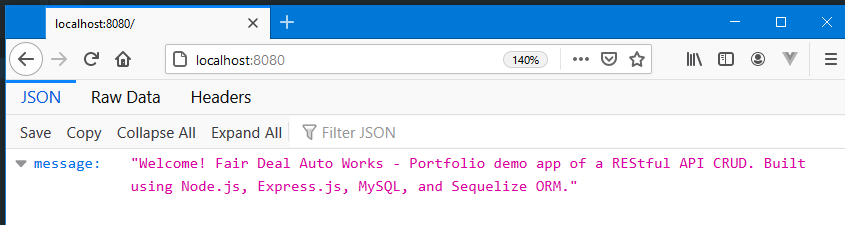
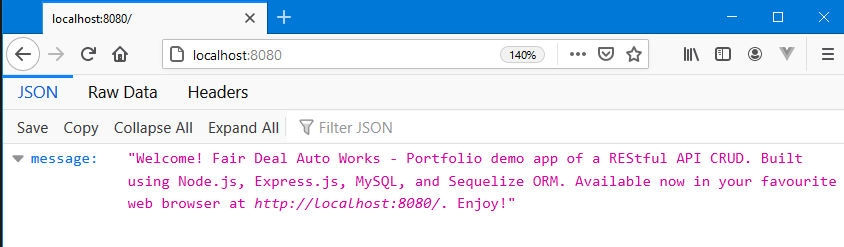
Added DB

Changed region(s): [[0.0, 0.0, 1.0, 1.0], [0.955, 0.0622, 0.9858, 0.0933]]

diff --git a/server.js b/server.js
@@ -1,20 +1,31 @@
-// server.js
+// server.js  static 
 // configure variables & setup app
 require('dotenv').config();
 const express = require("express");
-const bodyParser = require("body-parser");
+const path = require('path')
+const expressLayouts 	= require('express-ejs-layouts');
+const bodyParser = require("body-parser"); 
 const cors = require("cors");
 const port = process.env.PORT || 8080;
-const HOST = process.env.HOST || 'localhost';
+const WEBHOST = process.env.WEBHOST || 'localhost';
 
 const app = express();
 
 var corsOptions = {  origin: "http://localhost:8081"  };
 app.use(cors(corsOptions));
 
+// use ejs and express layouts. MUST come before routing!
+app.set('view engine', 'ejs');
+app.use(expressLayouts);
+
 // parse requests of URLencoded, and of JSON content types
 app.use(bodyParser.json());
 app.use(bodyParser.urlencoded({ extended: true }));
+
+// configure static files location
+// app.use(express.static(__dirname + '/public/'));
+app.use('/static', express.static(path.join(__dirname, 'public')))
+// app.use(express.static('public'));
 
 const db = require("./app/models");
 db.sequelize.sync();
@@ -28,18 +39,24 @@ db.sequelize.sync();
 
 // app routing
 app.get("/", (req, res) => {
-  res.json({message: `Welcome! Fair Deal Auto Works - Portfolio demo app of a REStful API CRUD. Built using Node.js, Express.js, MySQL, and Sequelize ORM. Available now in your favourite web browser at http://${HOST}:${port}/. Enjoy!`} );
+  res.json({message: `Welcome fellow coder! Fair Deal Auto Works - Portfolio demo app of a REStful API CRUD. Built using Node.js, Express.js, MySQL, and Sequelize ORM. Available now in your favourite web browser at http://${WEBHOST}:${port}/. Enjoy!`} );
 });
 
 require("./app/routes/main.routes")(app);
 
+app.get('/about', function(req, res) {
+    res.sendFile(path.join(__dirname + '/about.html'));
+});
+
+
+
 // start app
 app.listen(port, () => {
-  console.log(`Welcome to the Auto Shop API! The app is started on port ${port}, and is available at http://${HOST}:${port}/. Enjoy!` );
+  console.log(`Welcome to the Auto Shop API! The app is started on port ${port}, and is available at http://${WEBHOST}:${port}/. Enjoy!` );
 });
 
   /* 
   To start the default web browser from the command line: 
-  Windows ~ run 'start http://localhost:8088/'. 
-  Mac     ~ run 'open http://localhost:8088/'.   
+  Windows ~ run 'start http://localhost:8080/'. 
+  Mac     ~ run 'open http://localhost:8080/'.   
   */

diff --git a/about.html b/about.html
@@ -1,0 +1,27 @@
+<!DOCTYPE html>
+<html>
+  <head>
+    <meta charset="utf-8">
+    <meta name="viewport" content="width=device-width, initial-scale=1">
+    <title>Fair Deal API</title>
+    <link rel="stylesheet" href="https://cdn.jsdelivr.net/npm/bulma@0.9.0/css/bulma.min.css">
+  </head>
+  <body>
+  <section class="section">
+    <div class="container">
+      <h1 class="title has-text-link">Fair Deal API</h1> 
+      <p class="subtitle">
+        A RESTful API, CRUD backend, and demo portfolio app for  a fictional mechanic shop built using Node.js, Express.js framework, Sequelize ORM on a MySQL database for persistence. Inspired by minor work I did for my own mechanic.
+      </p>
+	  
+      <p class="subtitle">
+        <ul>
+		  <li>Index page ~ http://localhost:8080/ </li>
+		  <li>About ~ http://localhost:8080/about </li>
+		  <li>Search for Resolved/ Fixed Auto Repair Jobs ~ http://localhost:8080/resolved  </li>
+		</ul>		
+      </p>
+    </div>
+  </section>
+  </body>
+</html>
